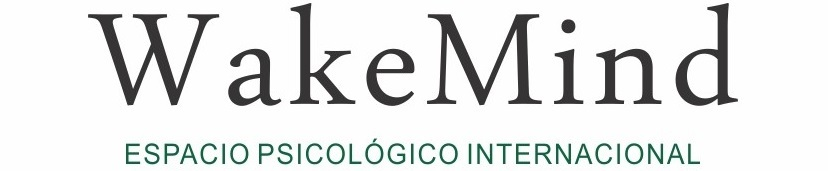
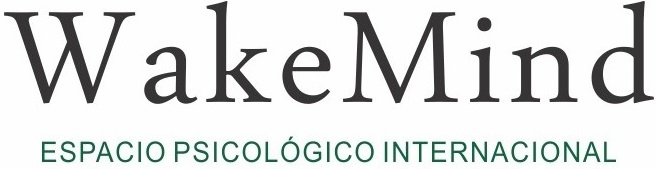
Arreglando navbar

Changed region(s): [[0.0, 0.0, 1.0, 0.6213], [0.061, 0.7988, 0.9451, 0.9763]]

diff --git a/index.html b/index.html
@@ -14,8 +14,8 @@
 </head>
 <body>
 <!-- ---------------------------------------------------------Navbar--------------------------------------- -->
-  <nav class="navbar navbar-light navbar-expand-lg navbar-expand-md py-lg-0 py-md-0 py-3">
-    <div class="container-fluid d-flex justify-content-between w-100">
+  <nav class="navbar navbar-light navbar-expand-lg navbar-expand-md pb-md-0 pb-3 pt-lg-0 pt-3">
+    <div class="w-100 d-flex justify-content-between px-0 mx-0">
       <a class="contenedor-logo">
         <img class="logo mb-md-0 mb-2" src="/img/Logo-WakeMind.png" alt="LOGO">
         <img class="WakeMind pb-md-3" src="/img/nombre.png" alt="WakeMind">

diff --git a/sass/parciales/responsive/General/_navbar.scss b/sass/parciales/responsive/General/_navbar.scss
@@ -15,7 +15,7 @@
                 width: 50px;
             }
             .WakeMind {
-                width: 100px;
+                width: 110px;
             }
         }
     }

diff --git a/sass/estilos.css b/sass/estilos.css
@@ -753,7 +753,7 @@ nav .btn-nav__activo::before {
     width: 50px;
   }
   nav .contenedor-logo .WakeMind {
-    width: 100px;
+    width: 110px;
   }
 }
 
